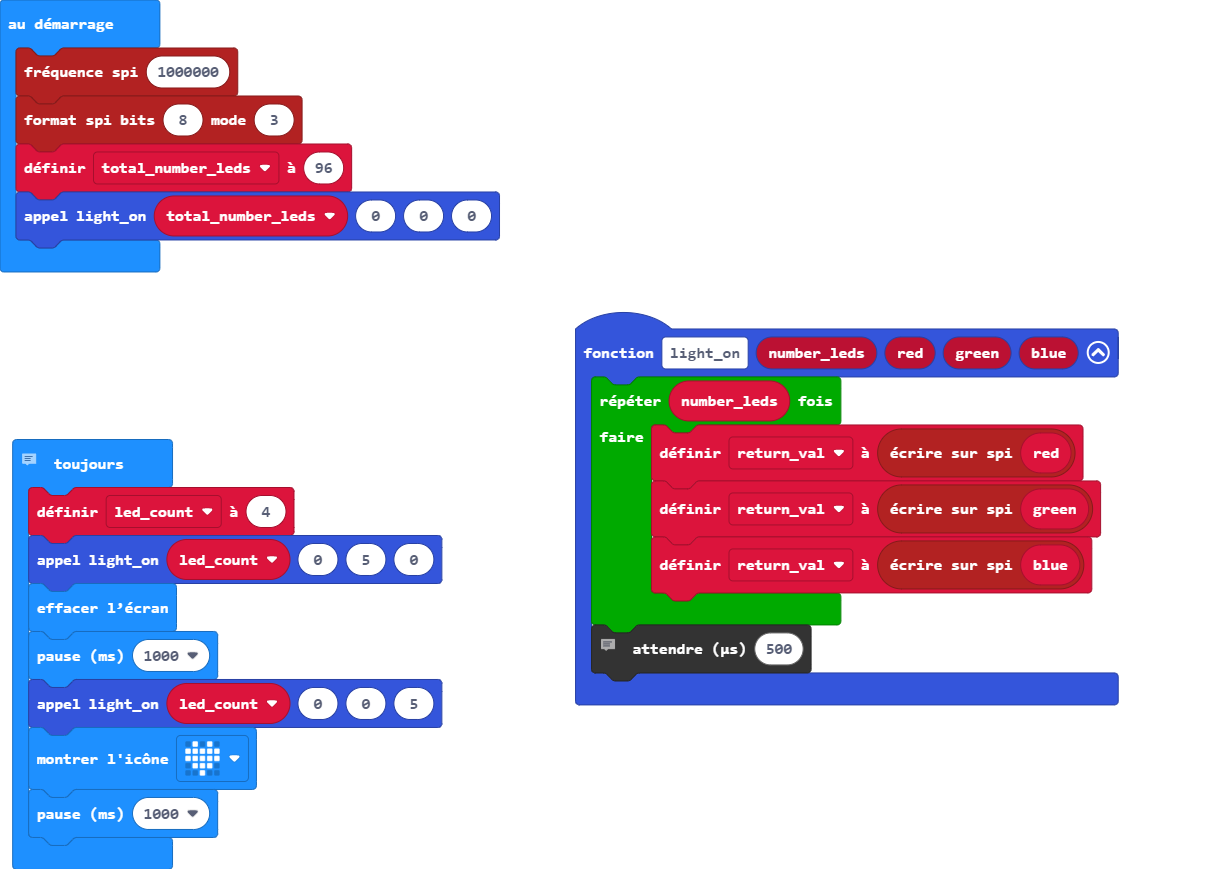
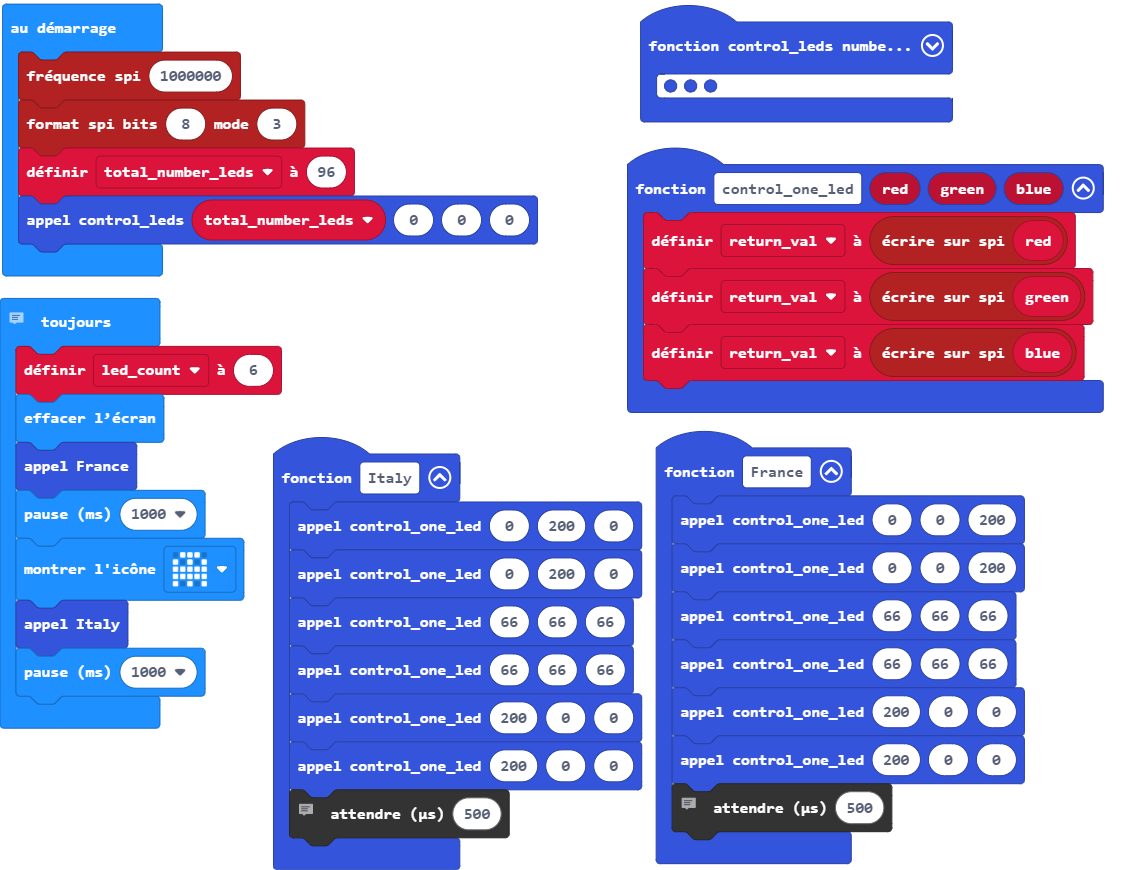
Mise à jour main.blocks, main.ts

diff --git a/main.ts b/main.ts
@@ -1,8 +1,31 @@
-function light_on (number_leds: number, red: number, green: number, blue: number) {
+function France () {
+    control_one_led(0, 0, 200)
+    control_one_led(0, 0, 200)
+    control_one_led(66, 66, 66)
+    control_one_led(66, 66, 66)
+    control_one_led(200, 0, 0)
+    control_one_led(200, 0, 0)
+    // Restart from first led index (flush)
+    control.waitMicros(500)
+}
+function control_one_led (red: number, green: number, blue: number) {
+    return_val = pins.spiWrite(red)
+    return_val = pins.spiWrite(green)
+    return_val = pins.spiWrite(blue)
+}
+function Italy () {
+    control_one_led(0, 200, 0)
+    control_one_led(0, 200, 0)
+    control_one_led(66, 66, 66)
+    control_one_led(66, 66, 66)
+    control_one_led(200, 0, 0)
+    control_one_led(200, 0, 0)
+    // Restart from first led index (flush)
+    control.waitMicros(500)
+}
+function control_leds (number_leds: number, red: number, green: number, blue: number) {
     for (let index = 0; index < number_leds; index++) {
-        return_val = pins.spiWrite(red)
-        return_val = pins.spiWrite(green)
-        return_val = pins.spiWrite(blue)
+        control_one_led(red, green, blue)
     }
     // Restart from first led index (flush)
     control.waitMicros(500)
@@ -12,18 +35,18 @@ let return_val = 0
 pins.spiFrequency(1000000)
 pins.spiFormat(8, 3)
 let total_number_leds = 96
-light_on(total_number_leds, 0, 0, 0)
+control_leds(total_number_leds, 0, 0, 0)
 // WS2801 LED strip  : definition : microbit
 // white             : GND        : GND
 // blue              : MOSI       : P15
 // green             : SCK        : P13
 // red               : VCC        : Not Connected
 basic.forever(function () {
-    led_count = 4
-    light_on(led_count, 0, 5, 0)
+    led_count = 6
     basic.clearScreen()
+    France()
     basic.pause(1000)
-    light_on(led_count, 0, 0, 5)
-    basic.showIcon(IconNames.Heart)
+    basic.showIcon(IconNames.Ghost)
+    Italy()
     basic.pause(1000)
 })
